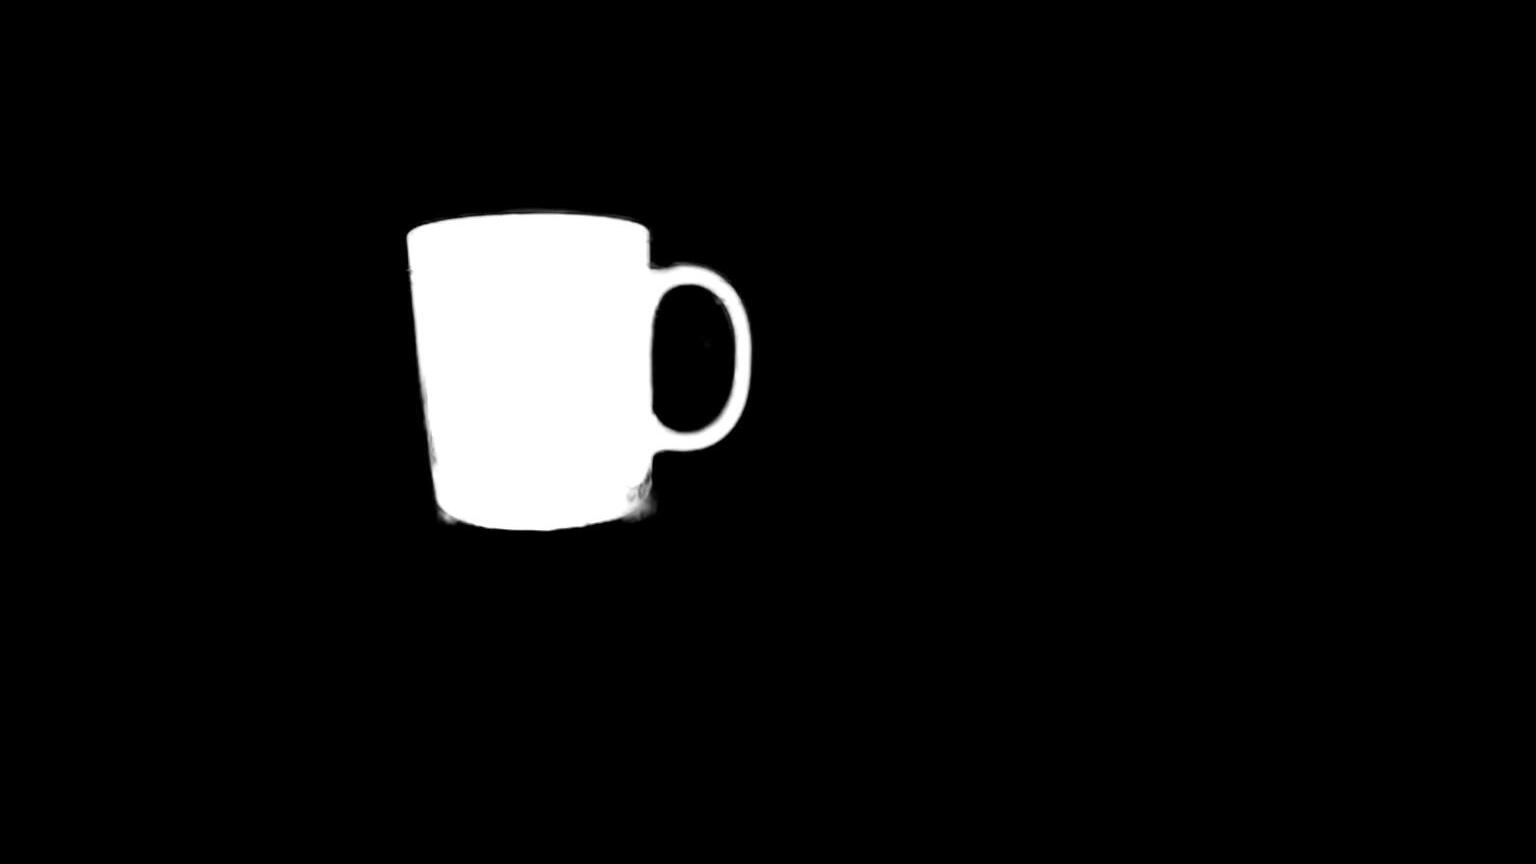
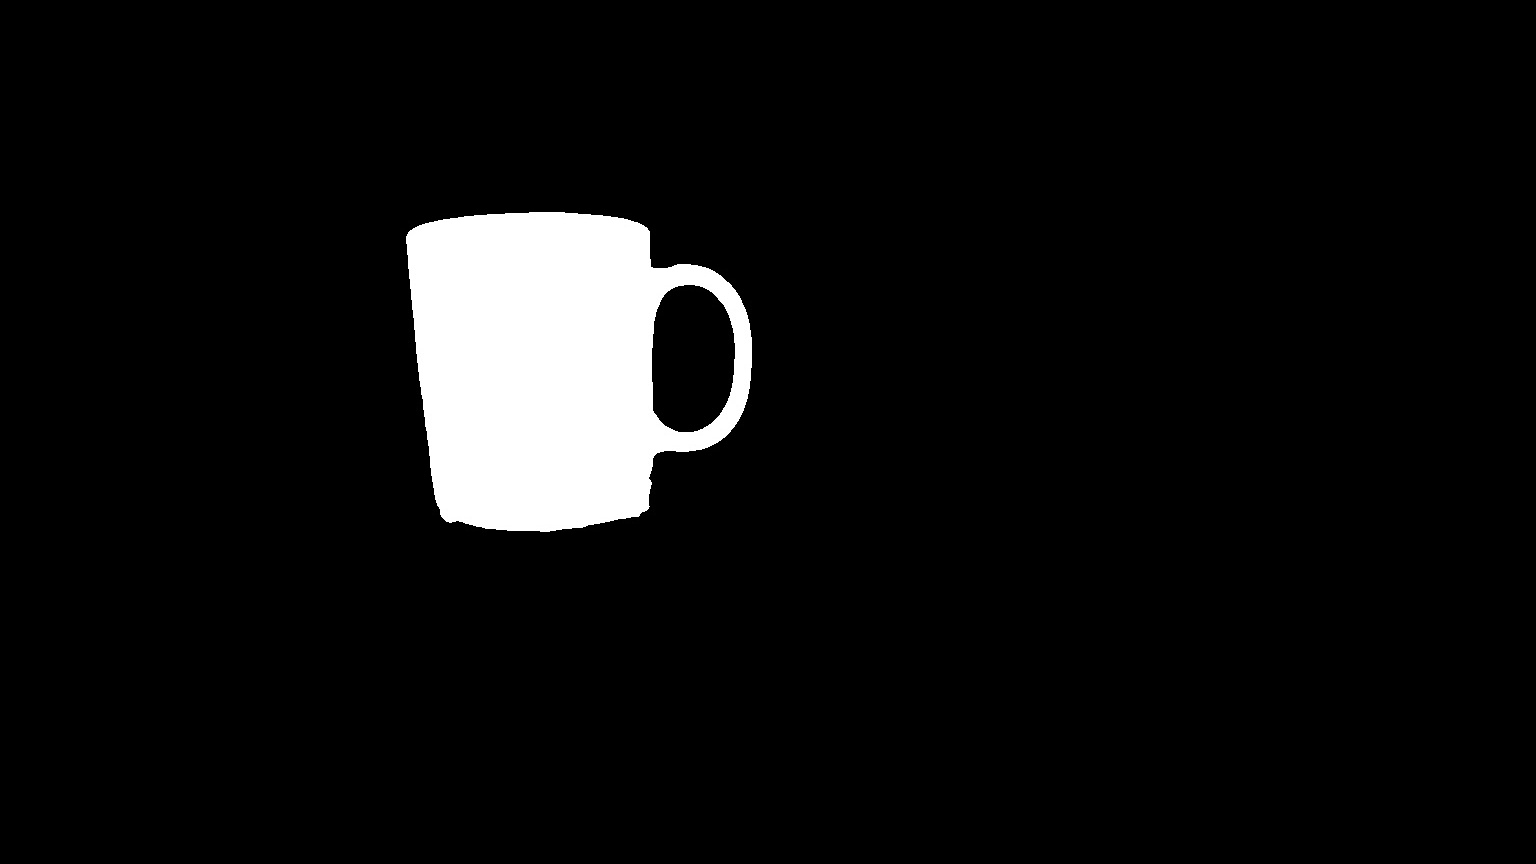
0302

diff --git a/area_calculate/test.py b/area_calculate/test.py
@@ -1,77 +1,313 @@
 import os
-import numpy as np 
+import gc
 import cv2
 import time
 import math
-import matplotlib.pyplot as plt
-from collections import defaultdict
+import psutil
+import tracemalloc 
+import numpy as np
+from os import listdir
+from os.path import isfile, join
 
-def max2(x):
-    m1 = max(x)
-    x2 = x.copy()
-    x2.remove(m1)
-    m2 = max(x2)
-    return m1,m2  
 
-def line_Segment(img):
+savefile_path = "/home/user/matting/area_calculate/test/"
+
+def FillHole(imgPath):
+
+    # 复制 im_in 图像
+    im_floodfill = imgPath.copy()
     
-    ver_lines=[]
-    coordinate=[]
-
-    gray = cv2.cvtColor(img,cv2.COLOR_BGR2GRAY)
-
-    lsd = cv2.createLineSegmentDetector(0)
-    dlines = lsd.detect(gray)
-
-    for dline in dlines[0]:
-        x0 = int(round(dline[0][0])) 
-        y0 = int(round(dline[0][1])) 
-        x1 = int(round(dline[0][2]))
-        y1 = int(round(dline[0][3]))
-        distance = math.sqrt((x0-x1)**2+(y0-y1)**2)
-        ver_lines.append(distance)
-    maxIndex = max2(ver_lines)
-
-    for dline in dlines[0]:
-        x0 = int(round(dline[0][0]))
-        y0 = int(round(dline[0][1]))
-        x1 = int(round(dline[0][2]))
-        y1 = int(round(dline[0][3]))
-        
-        distance = math.sqrt((x0-x1)**2+(y0-y1)**2)
-        # # print(distance[i])
-
-		# ver_lines[i].append(distance[i])
-			
-        if(distance >= int(maxIndex[1])):
-            cv2.line(img,(x0,y0),(x1,y1),(0,255,0),2,cv2.LINE_AA)
-            plt.axline((x0,y0), (x1,y1), linewidth=2, color="r",marker='o')
-            plt.show()
-            coordinate.append(((x0,y0),(x1,y1)))
+    # Mask 用于 floodFill，官方要求长宽+2
+    h, w = imgPath.shape[:2]
+    mask = np.zeros((h+2, w+2), np.uint8)
     
-    # line1 = math.sqrt((coordinate[0][1][0]-coordinate[1][1][0])**2+(coordinate[0][1][1]-coordinate[1][1][1])**2)
-    # line2 = math.sqrt((coordinate[0][0][0]-coordinate[1][0][0])**2+(coordinate[0][0][1]-coordinate[1][0][1])**2)
-        
-    # if(line1 > line2):
-    #     cv2.line(img,coordinate[0][1],coordinate[1][1],(255,0,0),2,cv2.LINE_AA)
-    #     circle_x = (coordinate[0][1][0] + coordinate[1][1][0])/2
-    #     circle_y = (coordinate[0][1][1] + coordinate[1][1][1])/2
-    # else:
-    #     cv2.line(orig,coordinate[0][0],coordinate[1][0],(255,0,0),2,cv2.LINE_AA)
-    #     circle_x = (coordinate[0][0][0] + coordinate[1][0][0])/2
-    #     circle_y = (coordinate[0][0][1] + coordinate[1][0][1])/2
-		
-    # cv2.circle(img,(int(circle_x),int(circle_y)),2,(0,0,255),2)	
-        # cv2.imwrite(savefile_path + filester+".jpg",img_com[i])
-    cv2.imshow("img",img)
+    # floodFill函数中的seedPoint必须是背景
+    isbreak = False
+    for i in range(im_floodfill.shape[0]):
+        for j in range(im_floodfill.shape[1]):
+            if(im_floodfill[i][j]==0):
+                seedPoint=(i,j)
+                isbreak = True
+                break
+        if(isbreak):
+            break
+    # 得到im_floodfill
+    cv2.floodFill(im_floodfill, mask, seedPoint, 255)
+
+    # 得到im_floodfill的逆im_floodfill_inv
+    im_floodfill_inv = cv2.bitwise_not(im_floodfill)
+    # 把im_in、im_floodfill_inv这两幅图像结合起来得到前景
+    im_out = imgPath | im_floodfill_inv
+
+    return im_out
+     
+    # 保存结果
+    # cv2.imwrite(SavePath, im_out)
+
+def retangle_area(coordinate_0,coordinate_1,coordinate_3):
+    w = coordinate_1[0] - coordinate_0[0]
+    h = coordinate_3[1] - coordinate_0[1]
+    area = w*h
+    return area
+
+def circle_area(radius):
+    pi = 3.1415926
+    area = radius * radius * pi
+    return area
 
 
 if __name__ == '__main__':
 
-    image_path = "29_img.jpg"
-    img_pha = cv2.imread(image_path)
-    line_Segment(img_pha)
-    cv2.waitKey(0)
+    dataset_root_path = r"/home/user/matting/area_calculate/"
+
+    image_path = os.path.join(dataset_root_path,"img")
+    original_path = os.path.join(dataset_root_path,"orig_img")
+
+    img = [ f for f in listdir(image_path) if isfile(join(image_path,f))]
+    orig_img = [ f for f in listdir(original_path) if isfile(join(original_path,f))]
+
+    #排序
+    img.sort(key = lambda i: int(i.rstrip('.jpg')))
+    orig_img.sort(key = lambda i: int(i.rstrip('.jpg')))
+
+    img_pha = np.empty(len(img), dtype = object)
+    img_com = np.empty(len(img), dtype = object)
+    gray = np.empty(len(img), dtype = object)
+    edges = np.empty(len(img), dtype = object)
+    hierarchy = np.empty(len(img), dtype = object)
+    drawContours = np.empty(len(img), dtype = object)
+    bin_image = np.empty(len(img), dtype = object)
+    # floodfill = np.empty(len(img), dtype = object)
+    # h = np.empty(len(img), dtype = object)
+    # w = np.empty(len(img), dtype = object)
+    # mask = np.empty(len(img), dtype = object)
+    
+    # floodfill_block = np.empty(len(img), dtype = object)
+    fill_out = np.empty(len(img), dtype = object)
+    img2 = np.empty(len(img), dtype = object)
+    areas = np.empty(len(img), dtype = object)
+    max_rect = np.empty(len(img), dtype = object)
+    max_box = np.empty(len(img), dtype = object)
+    retangleArea = np.empty(len(img), dtype = object)
+    circleArea = np.empty(len(img), dtype = object)
+
+    max_id = np.empty(len(img), dtype = object)
+    thingarea = np.empty(len(img), dtype = object)
+
+    pts1 = np.empty(len(img), dtype = object)
+    pts2 = np.empty(len(img), dtype = object)
+    M = np.empty(len(img), dtype = object)
+    dst = np.empty(len(img), dtype = object)
+
+
+    x = np.empty(len(img), dtype = object)
+    y = np.empty(len(img), dtype = object)
+    radius = np.empty(len(img), dtype = object)
+    center  = np.empty(len(img), dtype = object)
+
+    for i in range(0, len(img)):
+        isbreak = False
+        filester = img[i].split(".")[0]
+        img_pha[i] = cv2.imread(join(image_path,img[i]))
+        img_com[i] = cv2.imread(join(original_path,orig_img[i]))
+
+        gray[i] = cv2.cvtColor(img_pha[i],cv2.COLOR_BGR2GRAY)
+
+        ret,bin_image[i] = cv2.threshold(gray[i],127,255,cv2.THRESH_BINARY)
+
+        fill_out[i] = FillHole(bin_image[i])
+
+        # floodfill[i]  = bin_image[i].copy()
+
+        # h[i], w[i] = gray[i].shape[:2]
+        # mask[i] = np.zeros((h[i]+2, w[i]+2), np.uint8)
+        # print(h[i],w[i])
+             
+        # for a in  range(floodfill[i].shape[0]):
+        #     for b in range(floodfill[i].shape[1]):
+        #         if(floodfill[i][a][b] == 0):
+        #             seedPoint = (a,b)
+        #             isbreak = True
+        #             break
+        #     if(isbreak):
+        #         break
+
+        # cv2.floodFill(floodfill[i], mask[i], seedPoint, 255)
+        # floodfill_block[i] = cv2.bitwise_not(floodfill[i]) #要被填滿的空洞
+        # fill_out[i] = bin_image[i] | floodfill_block[i] #把空洞和上面要被填滿的結合
+
+        edges[i] = cv2.Canny(fill_out[i], 70, 210)
+        contours, hierarchy[i] = cv2.findContours(edges[i], cv2.RETR_EXTERNAL, cv2.CHAIN_APPROX_NONE)
+        # print(len(contours))
+
+
+
+        # contours.sort(key = cnt_area, reverse=False)
+        
+
+        
+        drawContours[i] = cv2.drawContours(img_com[i], contours, -1, (0, 0, 255), 2) 
+
+        
+        areas[i] = []
+        for c in range(len(contours)):
+            areas[i].append(cv2.contourArea(contours[c]))
+
+        max_id[i] = areas[i].index(max(areas[i]))
+        cnt = contours[max_id[i]]
+        # print(max_id[i])
+
+        max_rect[i] = cv2.minAreaRect(contours[max_id[i]])
+        max_box[i] = cv2.boxPoints(max_rect[i])
+        
+        #矩形輪廓面積
+        retangleArea[i] = retangle_area(max_box[i][0],max_box[i][1],max_box[i][3])
+        max_box[i] = np.int0(max_box[i])
+
+        thingarea[i] = cv2.contourArea(cnt)
+        print("thingarea:  ",thingarea[i])
+        print("retangleArea:",retangleArea[i])
+        
+        
+        
+        img2[i] = cv2.drawContours(img_com[i],[max_box[i]],0,(0,255,0),2)
+
+        # pts1[i] = np.float32(max_box[i])
+        # pts2[i] = np.float32([[max_rect[i][0][0]+max_rect[i][1][1]/2, max_rect[i][0][1]+max_rect[i][1][0]/2],
+        #               [max_rect[i][0][0]-max_rect[i][1][1]/2, max_rect[i][0][1]+max_rect[i][1][0]/2],
+        #               [max_rect[i][0][0]-max_rect[i][1][1]/2, max_rect[i][0][1]-max_rect[i][1][0]/2],
+        #               [max_rect[i][0][0]+max_rect[i][1][1]/2, max_rect[i][0][1]-max_rect[i][1][0]/2]])
+
+        # print(pts1[i],pts2[i])
+        # M[i] = cv2.getPerspectiveTransform(pts1[i],pts2[i])
+        # dst[i] = cv2.warpPerspective(img2[i], M[i], (img2[i].shape[1],img2[i].shape[0])) 
+        
+
+        (x[i], y[i]), radius[i] = cv2.minEnclosingCircle(cnt)
+        center[i] = (int(x[i]), int(y[i]))
+        radius[i] = int(radius[i])
+        circleArea[i] = circle_area(radius[i])
+        print("circleArea:  ",circleArea[i])
+        print()
+        cv2.circle(img2[i], center[i], radius[i], (255, 0, 0), 2) 
+
+
+        # cv2.imshow("img",img2[i])
+        # cv2.waitKey(0)
+
+        
+
+
+        # print(floodfill[i].shape)
+        cv2.imwrite(savefile_path +filester+"_1.jpg",fill_out[i])
+        cv2.imwrite(savefile_path +filester+".jpg",img2[i])
+
+    
+    del(img_pha,img_com,gray,edges,hierarchy,drawContours,bin_image,fill_out)#
+    # gc.collect()
+
+
+
+        
+
+        
+
+
+        # edges[i] = cv2.Canny(gray[i], 70, 210)
+
+        # contours, hierarchy[i] = cv2.findContours(edges[i], cv2.RETR_EXTERNAL, cv2.CHAIN_APPROX_NONE)
+        # print(len(contours))
+
+        # drawContours[i] = cv2.drawContours(img_com[i], contours, -1, (0, 0, 255), 2) 
+
+
+        # cv2.imwrite(savefile_path +filester+".jpg",bin_image[i])
+
+
+ 
+
+
+
+
+    # img_pha = cv2.imread(image_path)
+
+    # # cv2.imshow("111",img_pha)
+    # img_com = cv2.imread(original_path)
+    
+    # gray = cv2.cvtColor(img_pha,cv2.COLOR_BGR2GRAY)
+    # edges = cv2.Canny(gray, 70, 210)
+    
+    # contours, hierarchy = cv2.findContours(edges, cv2.RETR_EXTERNAL, cv2.CHAIN_APPROX_SIMPLE)
+    # cnt = contours[13]
+    # #aa = cv2.drawContours(img_com, contours, -1, (0, 0, 255), 2)
+    
+    # areas = []
+    # print(len(contours))
+    # for c in range(len(contours)):
+    #     areas.append(cv2.contourArea(contours[c]))
+
+    # max_id = areas.index(max(areas))
+
+    # max_rect = cv2.minAreaRect(contours[max_id])
+    # max_box = cv2.boxPoints(max_rect)
+    # max_box = np.int0(max_box)
+    # img2 = cv2.drawContours(img_com,[max_box],0,(0,255,0),2)
+
+    # pts1 = np.float32(max_box)
+    # pts2 = np.float32([[max_rect[0][0]+max_rect[1][1]/2, max_rect[0][1]+max_rect[1][0]/2],
+    #                   [max_rect[0][0]-max_rect[1][1]/2, max_rect[0][1]+max_rect[1][0]/2],
+    #                   [max_rect[0][0]-max_rect[1][1]/2, max_rect[0][1]-max_rect[1][0]/2],
+    #                   [max_rect[0][0]+max_rect[1][1]/2, max_rect[0][1]-max_rect[1][0]/2]])
+
+    # M = cv2.getPerspectiveTransform(pts1,pts2)
+    # dst = cv2.warpPerspective(img2, M, (img2.shape[1],img2.shape[0]))  
+
+    # #外接圓
+    # (x, y), radius = cv2.minEnclosingCircle(cnt)
+    # center = (int(x), int(y))
+    # radius = int(radius)
+    # cv2.circle(img2, center, radius, (255, 0, 0), 2)
+
+
+    # cv2.imshow('img2',img2)
+    # #line_Segment(img_pha)
+    # cv2.waitKey(0)
+
+
+ 
+
+ 
+# max_id = areas.index(max(areas))
+ 
+# max_rect = cv2.minAreaRect(contours[max_id])
+# max_box = cv2.boxPoints(max_rect)
+# max_box = np.int0(max_box)
+# img2 = cv2.drawContours(img2,[max_box],0,(0,255,0),2)
+ 
+# pts1 = np.float32(max_box)
+# pts2 = np.float32([[max_rect[0][0]+max_rect[1][1]/2, max_rect[0][1]+max_rect[1][0]/2],
+#                   [max_rect[0][0]-max_rect[1][1]/2, max_rect[0][1]+max_rect[1][0]/2],
+#                   [max_rect[0][0]-max_rect[1][1]/2, max_rect[0][1]-max_rect[1][0]/2],
+#                   [max_rect[0][0]+max_rect[1][1]/2, max_rect[0][1]-max_rect[1][0]/2]])
+# M = cv2.getPerspectiveTransform(pts1,pts2)
+# dst = cv2.warpPerspective(img2, M, (img2.shape[1],img2.shape[0]))
+ 
+# # 此处可以验证 max_box点的顺序
+# color = [(0, 0, 255),(0,255,0),(255,0,0),(255,255,255)]
+# i = 0
+# for point in pts2:
+#     cv2.circle(dst, tuple(point), 2, color[i], 4)
+#     i+=1
+ 
+# target = dst[int(pts2[2][1]):int(pts2[1][1]),int(pts2[2][0]):int(pts2[3][0]),:]
+ 
+ 
+# cv2.imshow('img2',img2)
+# cv2.imshow('dst',dst)
+# cv2.imshow('target',target)
+# cv2.waitKey()
+# cv2.destroyAllWindows()
+
 	
     
     

diff --git a/area_calculate/transform.py b/area_calculate/transform.py
@@ -96,6 +96,9 @@ def circle_check(contour):
     area = cv2.contourArea(contour)  #面積
     alpha = 4*np.pi*area/(perimeter**2)
     return alpha , area, perimeter
+
+def shape_detection():
+    
     
 
 if __name__ == '__main__':
